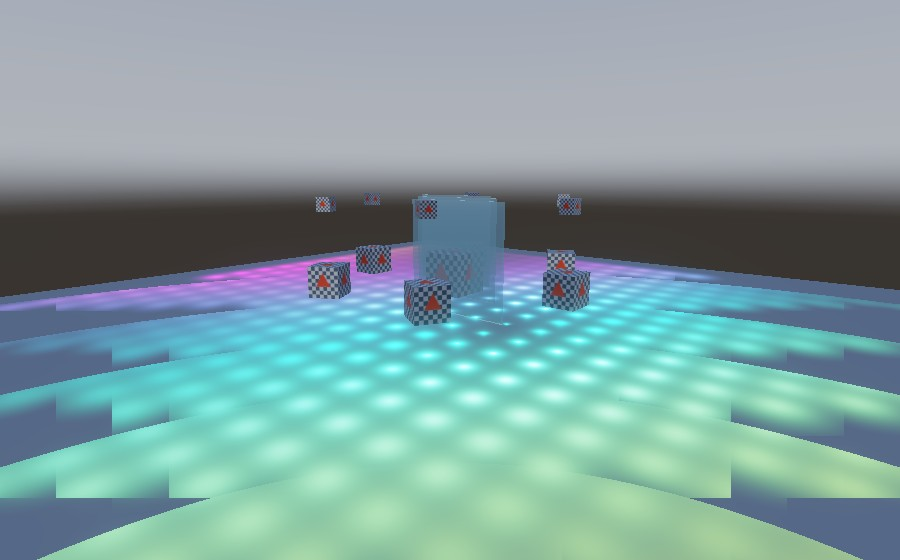
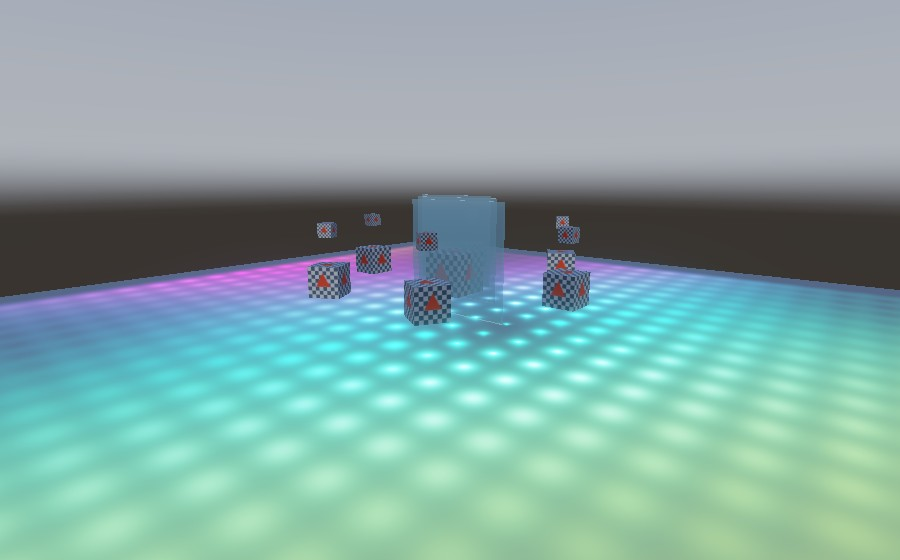
Fix clustered lighting reading the wrong depth slice
The fragment shader picked its cluster with radial distance from the eye:

    length(v.world - frame.cameraPosition.xyz)

while buildClusters slices the frustum with planes at constant view z. The
two agree only on the view axis and diverge by 1/cos away from it, so
fragments near the edges of the screen selected a slice further away than
the froxel they were actually in, read a light list built for somewhere
else, and lost the lights that should have reached them.

It showed as hard stair-stepped cutoffs in the glow: clean in the middle of
the frame, worse toward the corners, boundaries lying along arcs of constant
radius and stepped by the tile grid. Not overflow, which was the obvious
suspect: a readback of the counts buffer put the busiest cluster at 50
against a cap of 64, with nothing at the cap.

The projection has -1 in its w row, so clip.w is exactly -viewZ and the
fragment's builtin position carries the reciprocal. One divide, no new
uniform.

Also renames the quantity to viewDepth in the shader and depth in sliceFor,
and corrects sliceFor's doc, which said "view-space distance". That wording
is what the bug was written from.

Regenerates the clustered lighting image, which had the artifact in it.

diff --git a/src/render/shaders/pbr.js b/src/render/shaders/pbr.js
@@ -224,13 +224,13 @@ fn sunVisibility(worldPosition : vec3<f32>, normal : vec3<f32>, NoL : f32) -> f3
  * depth range, this applies it forwards -- and if they disagree, lights are
  * assigned to cells nothing looks up.
  */
-fn clusterFor(fragCoord : vec2<f32>, viewDistance : f32) -> u32 {
+fn clusterFor(fragCoord : vec2<f32>, viewDepth : f32) -> u32 {
   let tileX = min(u32(fragCoord.x / frame.clusterDepth.z), frame.clusterGrid.x - 1u);
   let tileY = min(u32(fragCoord.y / frame.clusterDepth.w), frame.clusterGrid.y - 1u);
 
   // Exponential in depth: uniform slices would spend almost every cell on the
   // far half of the view, where perspective makes them enormous.
-  let raw = log(max(viewDistance, 1e-4)) * frame.clusterDepth.x + frame.clusterDepth.y;
+  let raw = log(max(viewDepth, 1e-4)) * frame.clusterDepth.x + frame.clusterDepth.y;
   let slice = u32(clamp(raw, 0.0, f32(frame.clusterGrid.z - 1u)));
 
   return (slice * frame.clusterGrid.y + tileY) * frame.clusterGrid.x + tileX;
@@ -294,8 +294,18 @@ fn fs(v : VertexOut) -> @location(0) vec4<f32> {
   // ---- clustered punctual lights ----
   // Only the lights the compute pass put in THIS fragment's cell are touched,
   // so a scene with hundreds costs a handful per pixel.
-  let clusterViewDistance = length(v.world - frame.cameraPosition.xyz);
-  let cluster = clusterFor(v.clip.xy, clusterViewDistance);
+  //
+  // DEPTH, not radial distance. buildClusters slices the frustum with planes at
+  // constant view z, so a fragment has to pick its slice with the same
+  // quantity. Radial distance agrees only on the view axis and grows by 1/cos
+  // away from it, which sends edge-of-screen fragments to a slice further away
+  // than the froxel they are actually in: they then read a light list built for
+  // somewhere else, and the lights that should reach them are simply absent.
+  //
+  // The projection is [.., -1] in the w row, so clip.w is exactly -viewZ, and
+  // the fragment's builtin position carries its reciprocal. No extra uniform.
+  let viewDepth = 1.0 / v.clip.w;
+  let cluster = clusterFor(v.clip.xy, viewDepth);
   let lightCount = clusterCounts[cluster];
   let clusterBase = cluster * ${MAX_LIGHTS_PER_CLUSTER}u;
 

diff --git a/src/render/clustered.js b/src/render/clustered.js
@@ -378,15 +378,16 @@ export class ClusteredLights {
 }
 
 /**
- * Which cluster a view-space distance falls in.
+ * Which cluster a view-space DEPTH falls in -- z along the view axis, not
+ * radial distance from the eye. The slices are planes, not shells.
  *
  * The reference the shader's version was written from, and the only place the
  * mapping is tested. It does NOT verify the shader -- that is a separate copy
  * in WGSL, and the two can drift. Changing one means changing both.
  */
-export function sliceFor(distance, near, lightDistance, slices = CLUSTER_Z) {
+export function sliceFor(depth, near, lightDistance, slices = CLUSTER_Z) {
   const ratio = Math.log(lightDistance / near);
   const scale = slices / ratio;
   const bias = -(slices * Math.log(near)) / ratio;
-  return Math.min(Math.max(Math.floor(Math.log(distance) * scale + bias), 0), slices - 1);
+  return Math.min(Math.max(Math.floor(Math.log(depth) * scale + bias), 0), slices - 1);
 }
